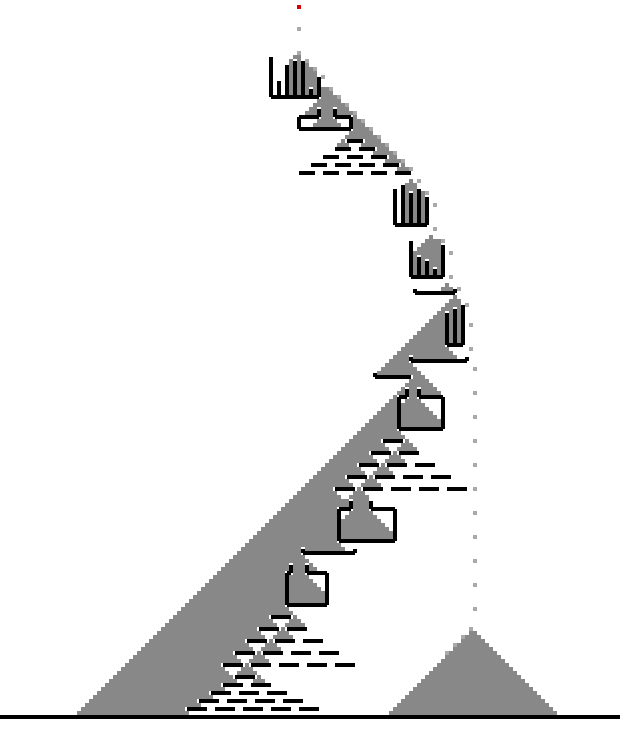
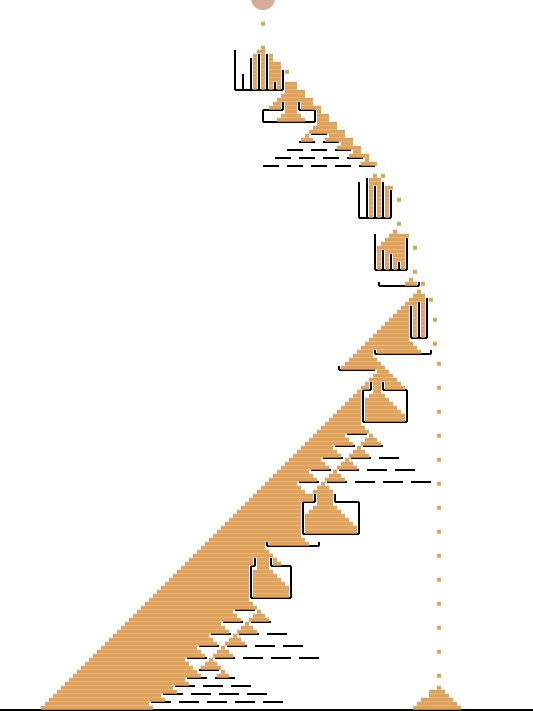
day 14 added image

Changed region(s): [[0.0, 0.0619, 1.0, 1.0], [0.4803, 0.0, 0.5103, 0.0309]]

diff --git a/2022/day14/script.anim.js b/2022/day14/script.anim.js
@@ -36,8 +36,8 @@ const dropSand = () => sand.push({pos: sandStart.slice(), state: 'moving', drawn
 
 const initBackground = () => {
     const drawLine = (from, to) => {
-        ctx.moveTo((from[0]-shift)*scale, from[1]*scale);
-        ctx.lineTo((to[0]-shift)*scale, to[1]*scale);
+        ctx.moveTo((from[0]-shift)*scale+0.0, from[1]*scale);
+        ctx.lineTo((to[0]-shift)*scale+0.0, to[1]*scale);
     }
 
     canvas.offscreenCanvas = document.createElement("canvas");
@@ -46,13 +46,15 @@ const initBackground = () => {
 
     let ctx = canvas.offscreenCanvas.getContext("2d")
     
-    ctx.lineWidth = scale;
+    ctx.lineWidth = 2;
     caves.forEach(point => point.forEach((p, i) => i && drawLine(point[i-1], p)))
     ctx.stroke();
 
     // draw sand start point
-    ctx.fillStyle = '#ff0000';
-    ctx.fillRect(Math.round((sandStart[0]-shift)*scale-scale/2), sandStart[1]*scale, scale, scale);
+    ctx.fillStyle = '#E1AD9D';
+    ctx.beginPath();
+    ctx.arc(Math.round((sandStart[0]-shift)*scale), Math.round(sandStart[1]*scale),scale*3, 0, 2 * Math.PI);
+    ctx.fill();
 }
 
 const draw = () => {
@@ -60,16 +62,15 @@ const draw = () => {
     ctx.drawImage(canvas.offscreenCanvas, 0, 0);
     sand.forEach(p => {
         let targetCtx = ctx;
-        ctx.fillStyle = p.state == 'solid' ? '#888888' : '#aaaaaa';
-        ctx.fillRect(Math.round((p.pos[0]-shift)*scale-scale/2), Math.round(p.pos[1]*scale-scale/2), scale, scale);
+        ctx.fillStyle = p.state == 'solid' ? '#F4A460' : '#E1A95F';
+        ctx.fillRect(Math.round((p.pos[0]-shift)*scale-scale/2), (p.pos[1]*scale-scale/16), scale, scale);
     })
 }
 
 const tick = () => {
     if (ticks % 2 == 0) dropSand();
     advanceSand();
-    if (ticks % 3 == 0)
-        draw();
+    if (ticks % 3 == 0) draw();
     ticks++;
 }
 
